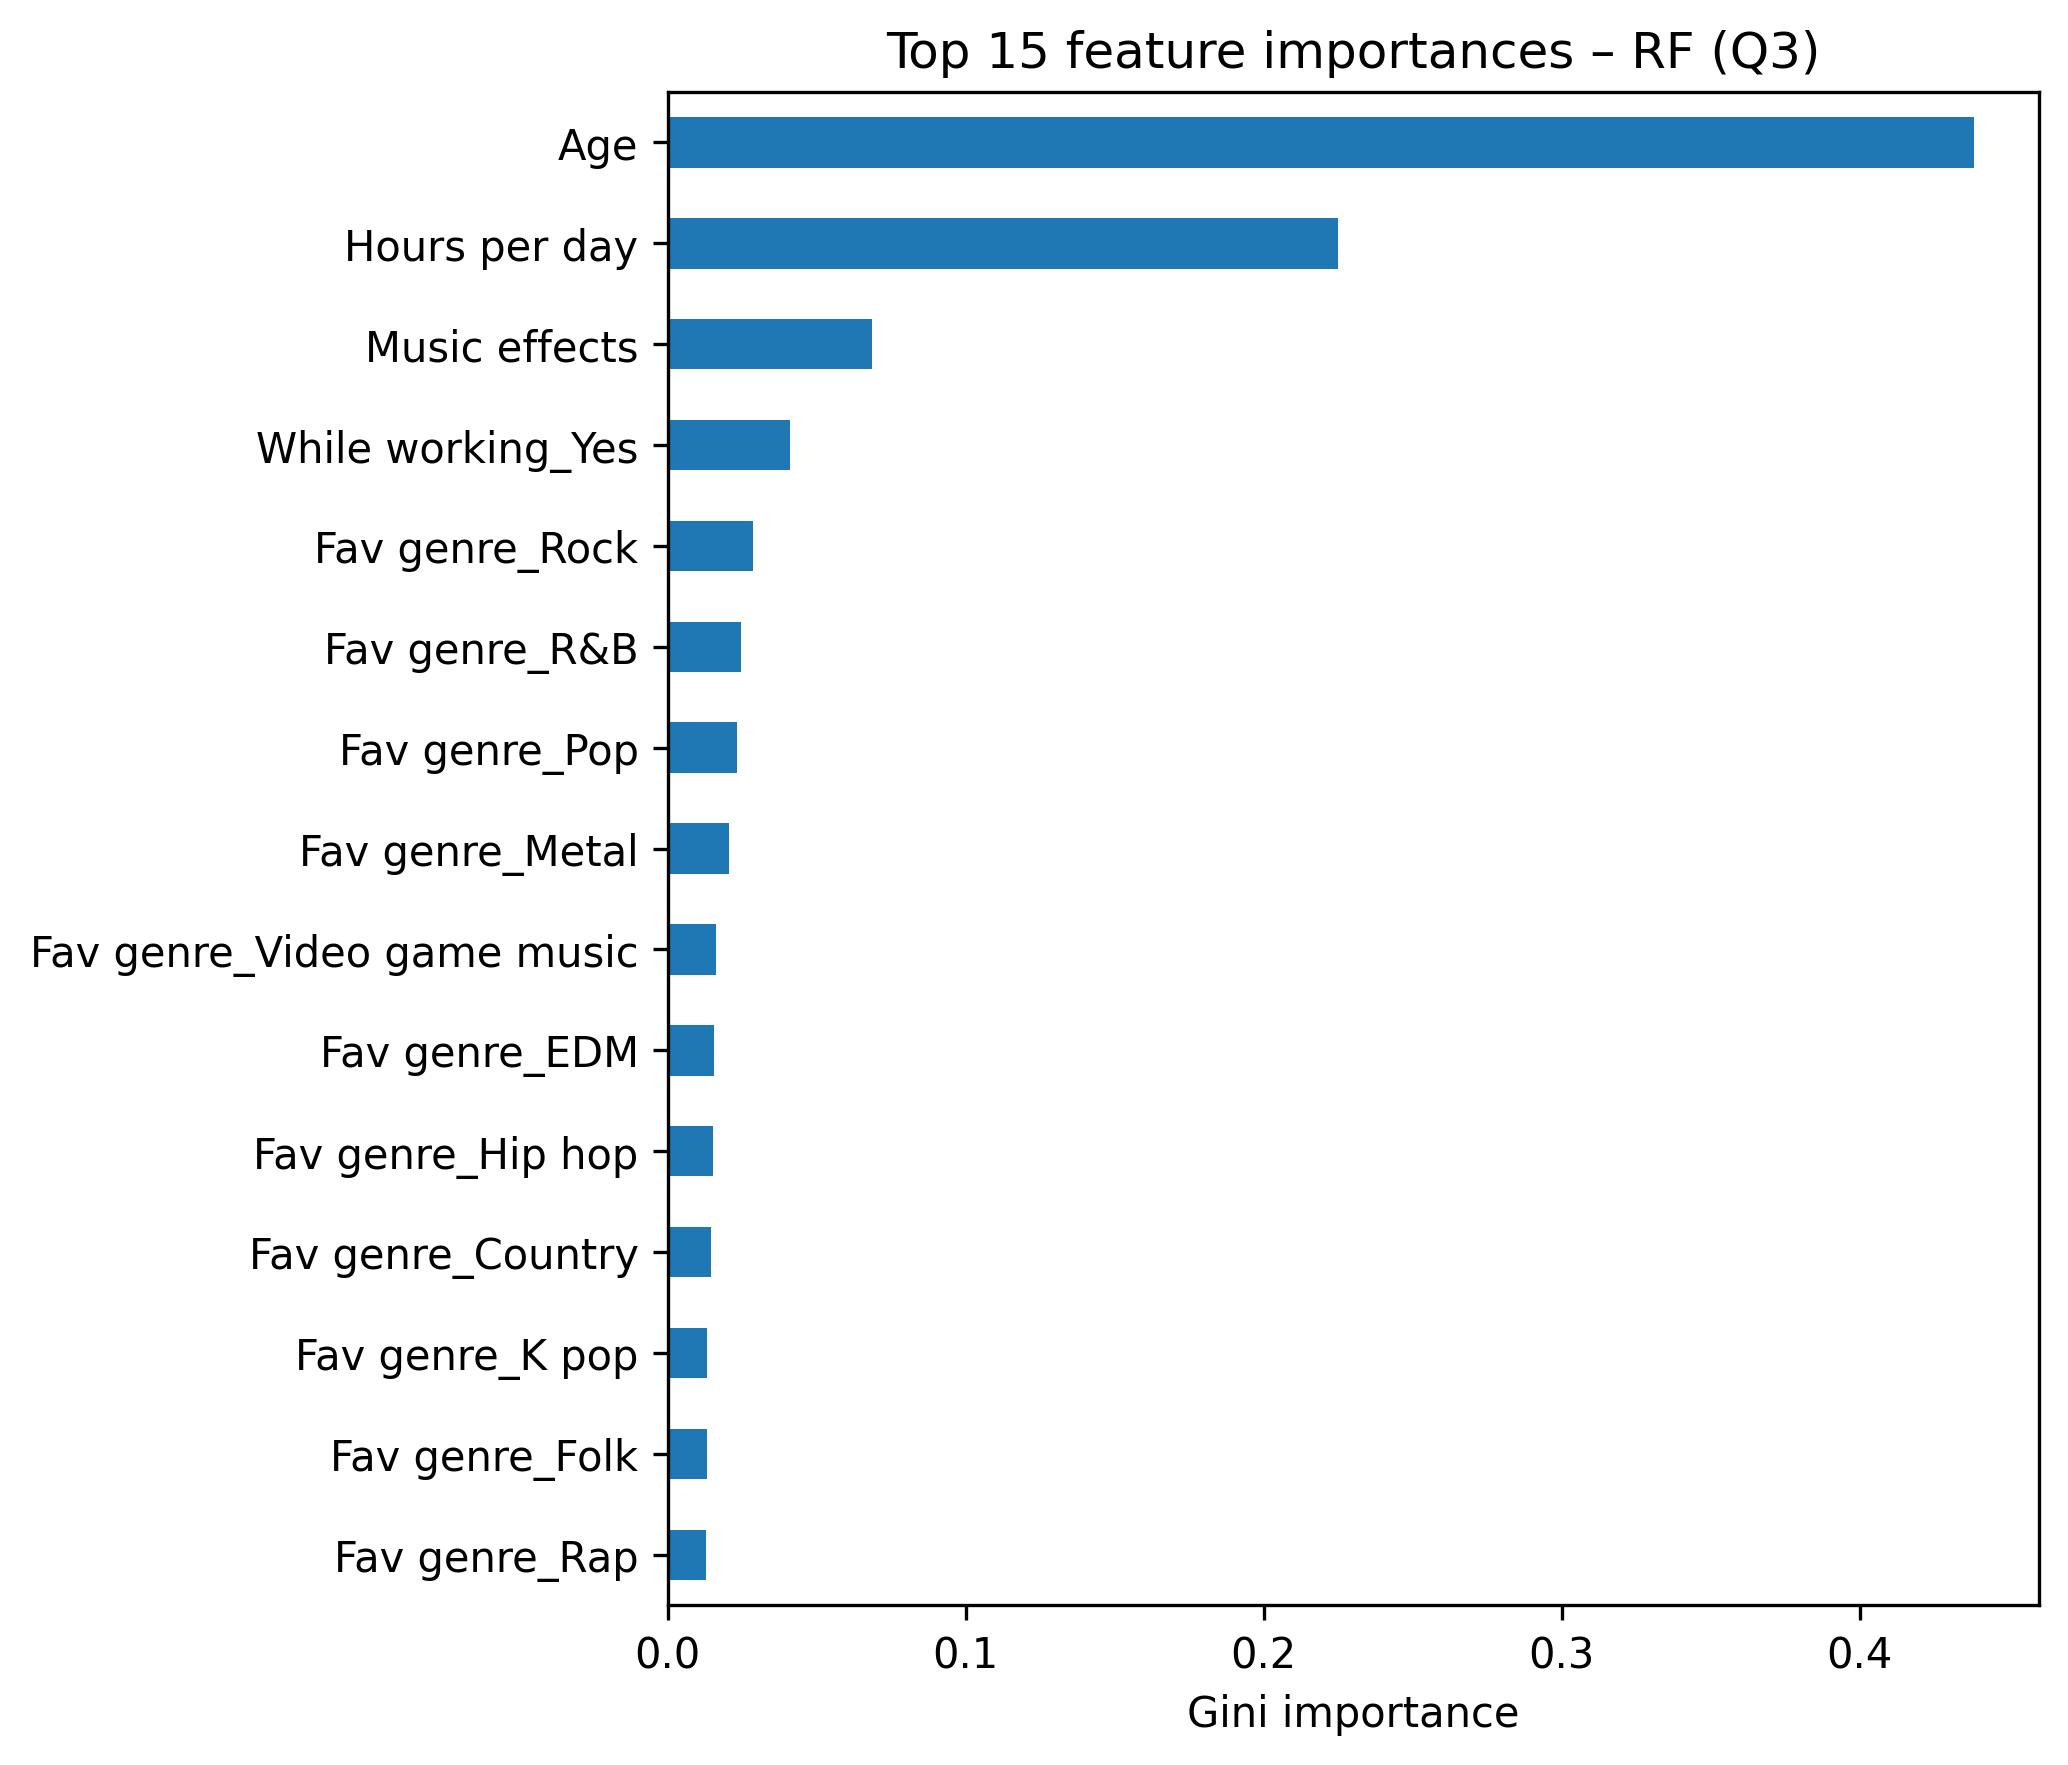
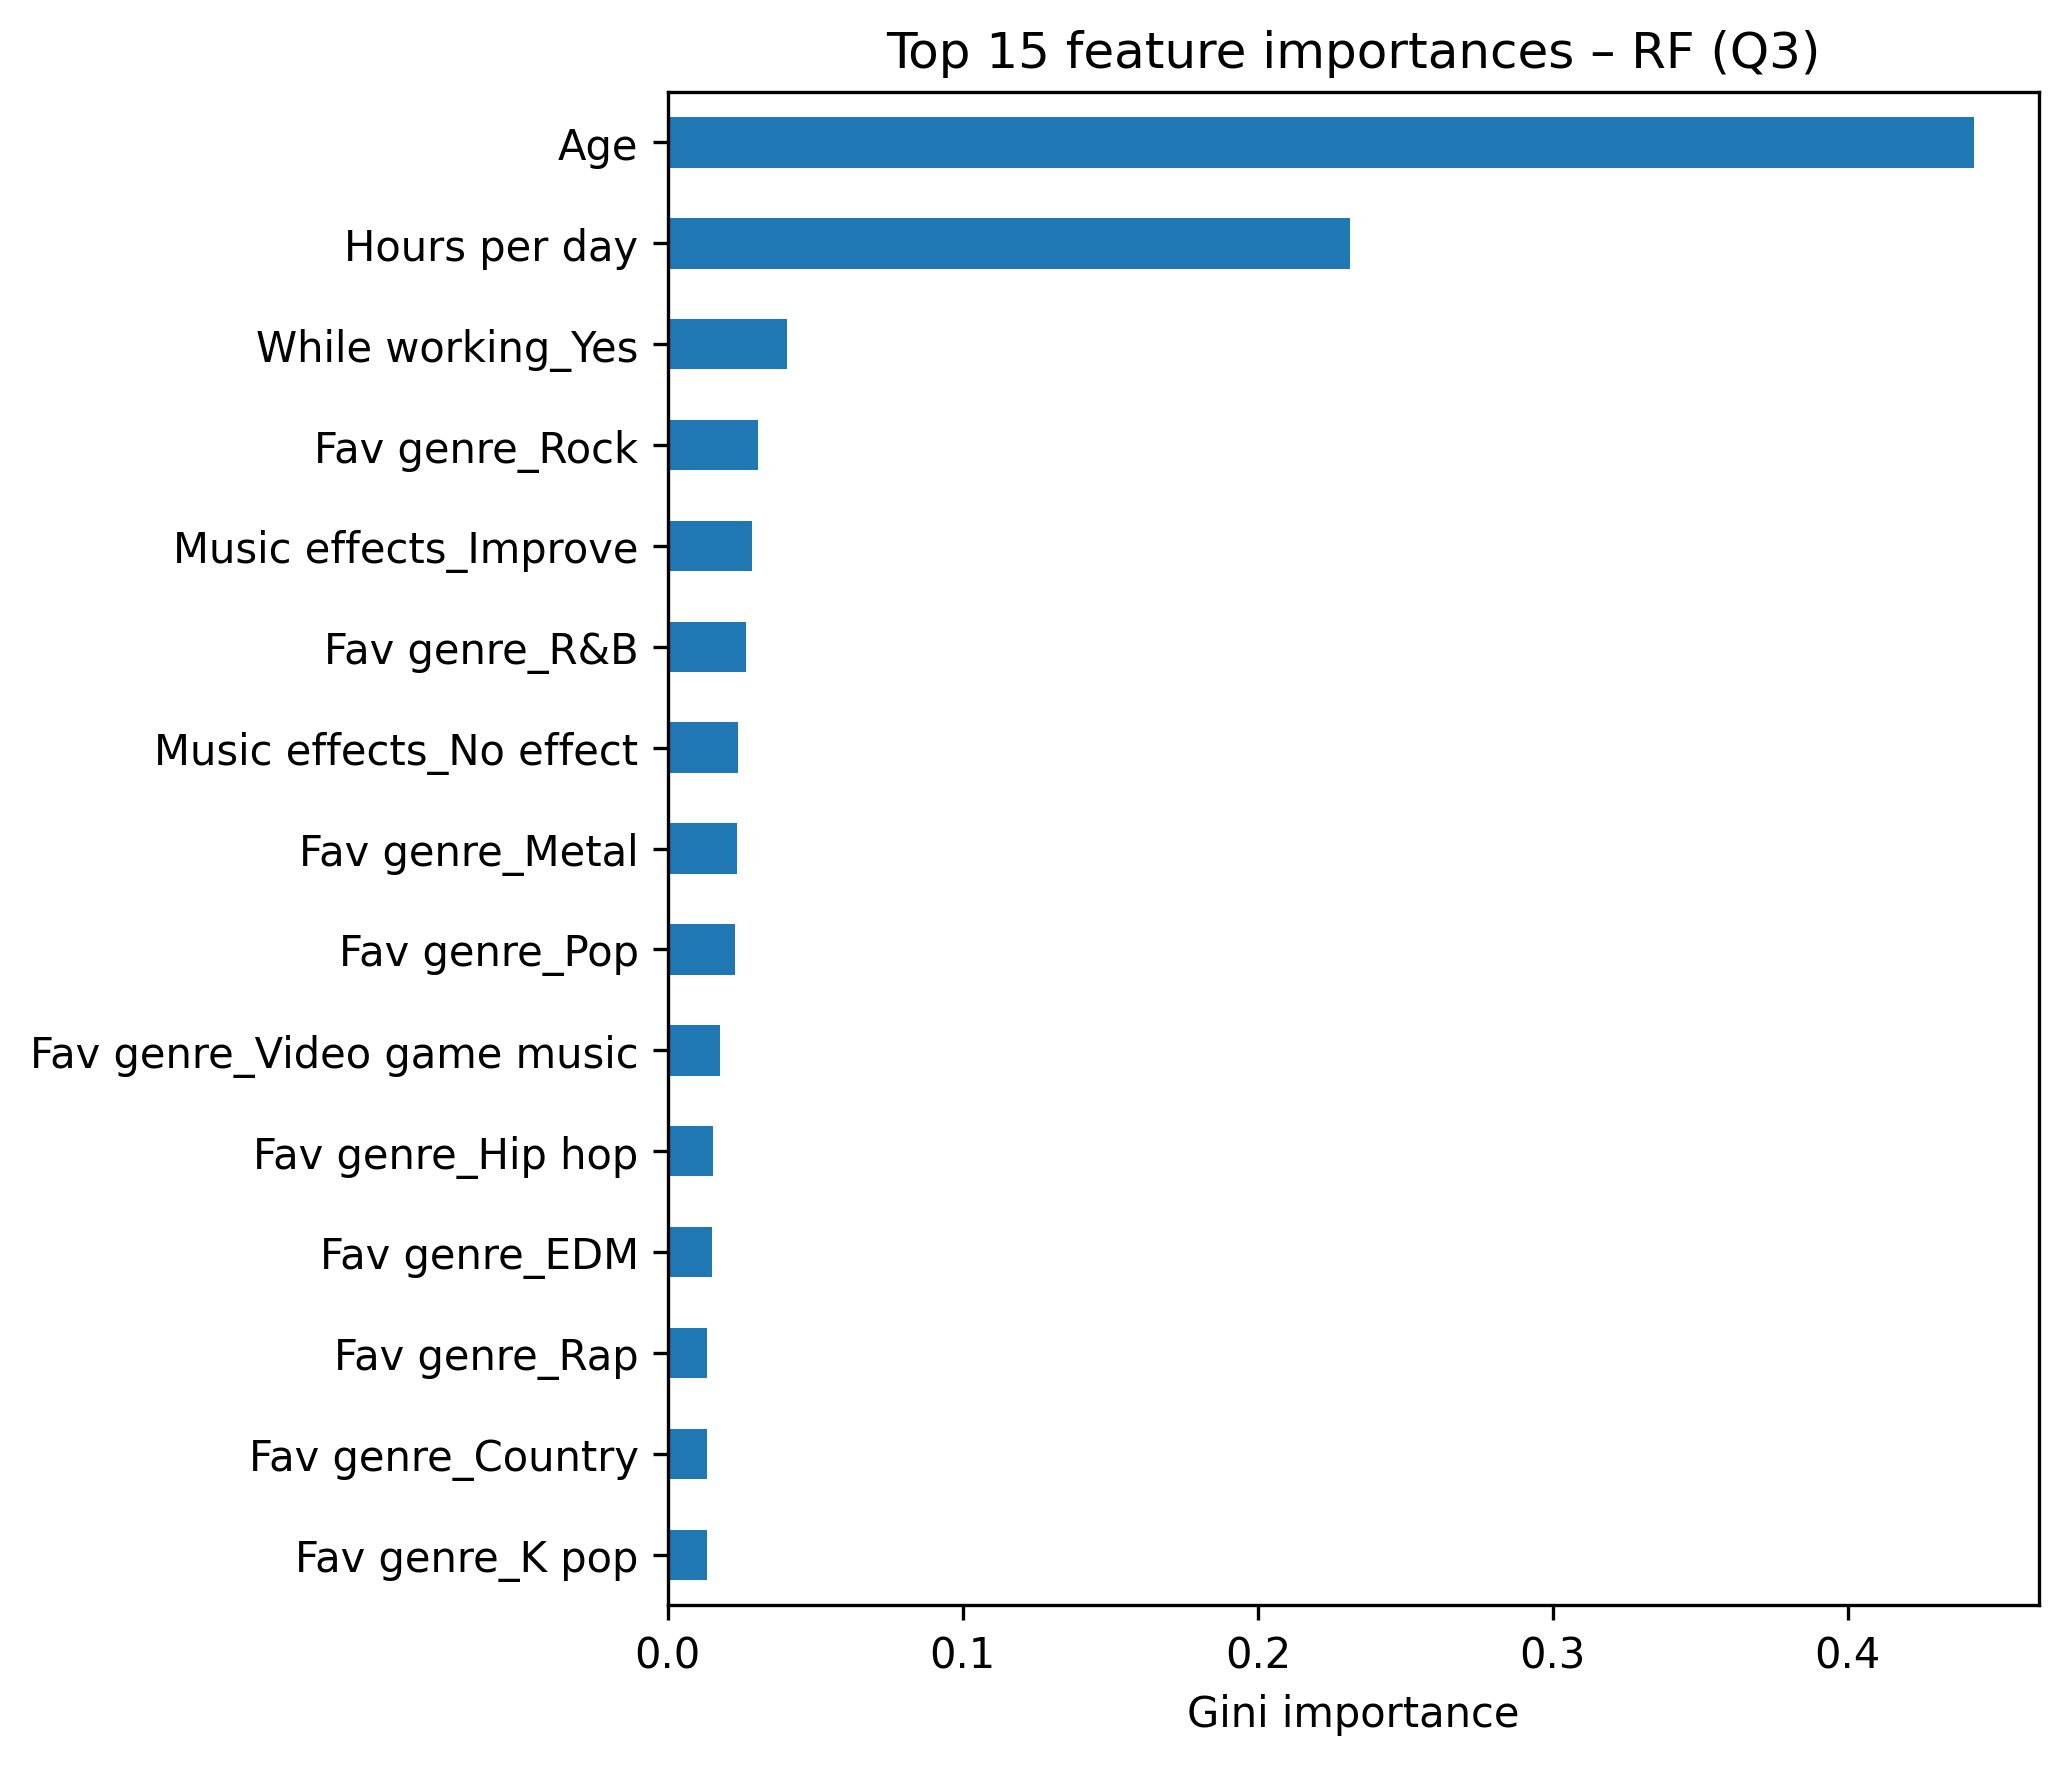
Refactor music effects analysis to use ordered categorical variable and generate separate plots for each age group

diff --git a/ResearchQuestions.py b/ResearchQuestions.py
@@ -392,80 +392,60 @@ def analyze_age_psychological_state(df, save_dir=None, show=True):
         show_or_save_plot(fig, path, show)
 
 
-def analyze_age_music_effect(df, save_path=None, show=True):
+def analyze_age_music_effect(df, save_dir="plots/age_effects", show=True):
     """
-    Analyzes whether age influences how people perceive the effect of music on
-    their mental health (Music effects: -1, 0, 1).
+    Analyzes how people of different age groups perceive the effect of music.
+    Creates SEPARATE plots for each age group showing counts of:
+    - Worsen
+    - No effect
+    - Improve
 
-    Performs:
-    - Pearson correlation (Age × Music effects)
-    - ANOVA across age groups
-    - Summary table
-    - Clean barplot (mean Music effects per age group)
+    Music effects is used as an ordered categorical variable.
     """
 
-    # Kontrola sloupců
     required_cols = ["Age", "Music effects"]
-    if not all(col in df.columns for col in required_cols):
+    if not all(c in df.columns for c in required_cols):
         print(f"⚠ Missing required columns: {required_cols}")
         return
 
-    # Čištění dat
     data = df.dropna(subset=required_cols).copy()
     data = data[data["Age"] > 0]
 
-    # 🔹 1) Korelace Age × Music effects
-    r, p = pearsonr(data["Age"], data["Music effects"])
-    print("📈 Korelace mezi věkem a Music effects:")
-    print(f"   r = {r:.3f}, p = {p:.5f}")
-    print("   " + ("✅ Statisticky významná souvislost." if p < 0.05 else "ℹ Bez významné souvislosti."))
-
-    # 🔹 2) Vytvoření věkových skupin
+    # Create age groups
     bins = [0, 19, 29, 39, 49, 59, 120]
     labels = ["<20", "20–29", "30–39", "40–49", "50–59", "60+"]
     data["Age group"] = pd.cut(data["Age"], bins=bins, labels=labels)
 
-    # 🔹 3) ANOVA
-    groups = [
-        g["Music effects"].values
-        for _, g in data.groupby("Age group", observed=True)
-        if len(g) > 2
-    ]
-    f_stat, p_val = f_oneway(*groups)
-    print("\n📊 ANOVA test (věkové skupiny × Music effects):")
-    print(f"   F = {f_stat:.3f}, p = {p_val:.5f}")
-    print("   " + ("✅ Významné rozdíly mezi věkovými skupinami."
-                   if p_val < 0.05 else
-                   "ℹ Žádné statisticky významné rozdíly."))
+    os.makedirs(save_dir, exist_ok=True)
 
-    # 🔹 4) Tabulka souhrnných statistik
-    summary = data.groupby("Age group", observed=True)["Music effects"].agg(
-        ["count", "mean", "median", "std"]
-    )
-    summary = summary.round(2)
+    # For each age group: make one plot
+    for group in labels:
+        subset = data[data["Age group"] == group]
 
-    print("\n📋 Průměrné hodnoty Music effects podle věku:")
-    print(summary)
+        if subset.empty:
+            continue
 
-    # 🔹 5) Vizualizace – čistý barplot
-    fig, ax = plt.subplots(figsize=(8, 5))
-    sns.barplot(
-        data=data,
-        x="Age group",
-        y="Music effects",
-        hue="Age group",
-        legend=False,
-        palette="Set2",
-        errorbar=("ci", 95),
-        ax=ax
-    )
+        counts = subset["Music effects"].value_counts().reindex(
+            ["Worsen", "No effect", "Improve"], fill_value=0
+        )
 
-    ax.set_title("Vnímaný účinek hudby na duševní zdraví podle věku")
-    ax.set_xlabel("Věková skupina")
-    ax.set_ylabel("Music effect (-1=Worsen, 0=No effect, 1=Improve)")
-    plt.tight_layout()
+        fig, ax = plt.subplots(figsize=(6,4))
+        sns.barplot(
+            x=counts.index,
+            y=counts.values,
+            ax=ax
+        )
 
-    # Uložení nebo zobrazení
-    show_or_save_plot(fig, save_path, show)
+        ax.set_title(f"Music effect perception – Age {group}")
+        ax.set_xlabel("Music effect")
+        ax.set_ylabel("Count")
 
-    return summary
+        plt.tight_layout()
+
+        # Save each figure separately
+        filename = f"music_effect_age_{group.replace('<','under_').replace('+','plus')}.png"
+        save_path = os.path.join(save_dir, filename)
+
+        show_or_save_plot(fig, save_path, show)
+
+    print("✅ All age-group plots generated.")

diff --git a/FileLoader.py b/FileLoader.py
@@ -66,23 +66,28 @@ def _drop_irrelevant_columns(df: pd.DataFrame) -> pd.DataFrame:
     return df
 
 
+import pandas as pd
+
 def _transform_music_effects(df: pd.DataFrame) -> pd.DataFrame:
     """
-    Transforms the 'Music effects' column into numeric values.
-    Improve -> 1, No effect -> 0, Worsen -> -1
+    Transforms 'Music effects' into an ordered categorical variable
+    instead of numeric (-1,0,1), as recommended.
+    Order: Worsen < No effect < Improve
     """
-    mapping = {
-        "Improve": 1,
-        "No effect": 0,
-        "Worsen": -1
-    }
-
-    if "Music effects" in df.columns:
-        df["Music effects"] = df["Music effects"].map(mapping)
-        print("🎵 'Music effects' transformed to numeric values.")
-    else:
+    if "Music effects" not in df.columns:
         print("⚠ Column 'Music effects' not found.")
+        return df
+
+    df["Music effects"] = pd.Categorical(
+        df["Music effects"],
+        categories=["Worsen", "No effect", "Improve"],
+        ordered=True
+    )
+
+    print("🎵 'Music effects' transformed into ordered categorical variable.")
     return df
+
+
 
 
 def _preprocess_dataset(df: pd.DataFrame) -> pd.DataFrame:

diff --git a/main.py b/main.py
@@ -66,7 +66,6 @@ if __name__ == "__main__":
     analyze_depression_by_genre(df, "plots/depression_by_genre.png")
     analyze_music_frequency_effects(df, "plots/music_frequency_effects.png")
     analyze_music_while_working(df, "plots/music_while_working.png")
-    analyze_disorder_prediction(df, outdir="plots",
-                                show=False)  # Q3 – predikce rizika (ROC + feature importance + metrics CSV)
+    analyze_disorder_prediction(df, outdir="plots", show=False)  # Q3 – predikce rizika (ROC + feature importance + metrics CSV)
     # analyze_age_psychological_state(df, "plots/") Nakonec nevyužijeme - bullshit otázka
-    analyze_age_music_effect(df, "plots/age_music_effect.png")
+    analyze_age_music_effect(df, "plots/age_music_effect")
